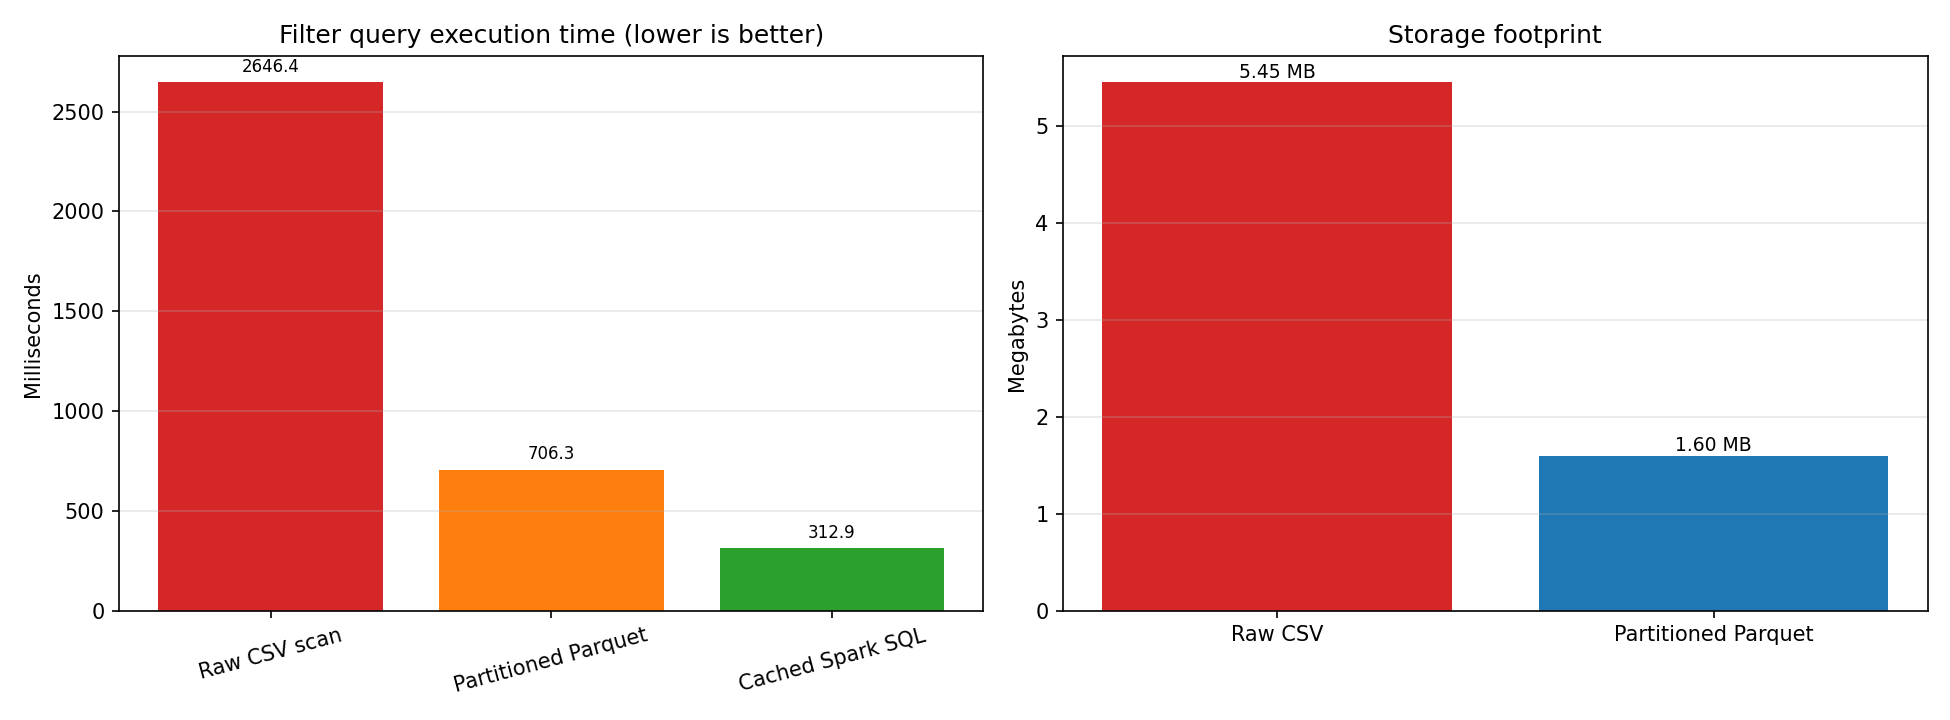
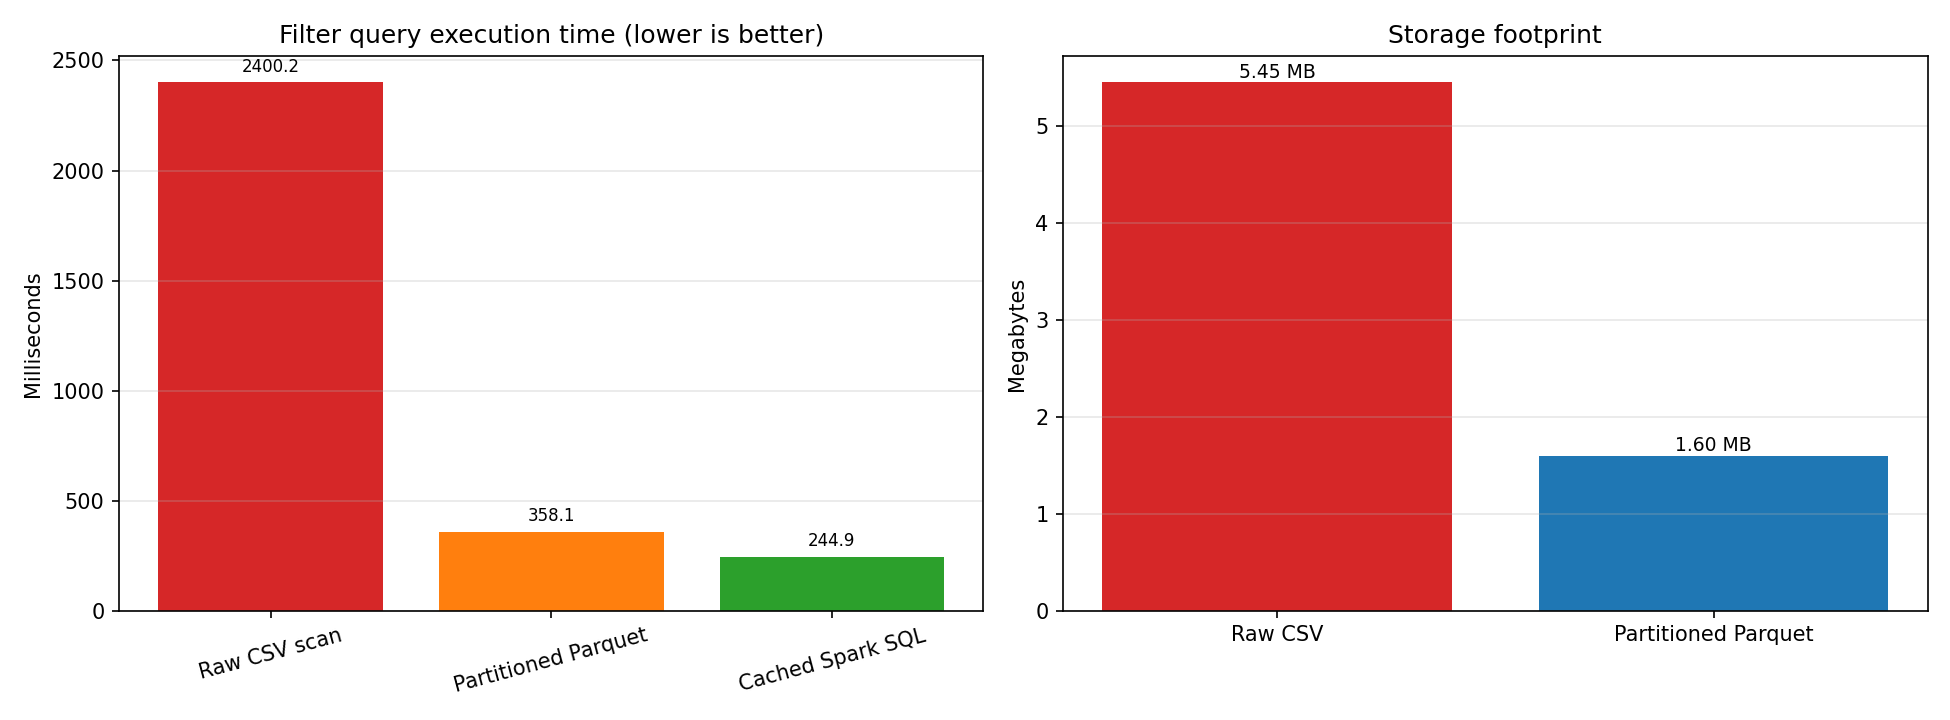
fix: remove machine-specific paths from generated reports and Spark config

diff --git a/common/spark.py b/common/spark.py
@@ -4,20 +4,59 @@ from __future__ import annotations
 
 import os
 import sys
+import tempfile
 from pathlib import Path
 
 _WINUTILS_CANDIDATES = [
     os.environ.get("HADOOP_HOME"),
     str(Path(__file__).resolve().parents[1] / ".hadoop"),
-    r"C:\Users\junai\AppData\Local\Temp\opencode\hadoop",
 ]
 
 _PYTHON_CANDIDATES = [
     os.environ.get("PYSPARK_PYTHON"),
-    r"C:\Users\junai\AppData\Local\Temp\opencode\py311\python.exe",
-    r"C:\Users\junai\AppData\Local\Programs\Python\Python311\python.exe",
     sys.executable,
 ]
+
+
+def _space_free_python_alias() -> str | None:
+    """Alias a spaced interpreter path so Spark workers can launch on Windows.
+
+    Spark starts Python workers through cmd.exe, and a space in the
+    interpreter path (e.g. ``C:\\Program Files\\...``) can fail with an EOF
+    error.  A junction in the OS temp folder (always space-free) is created
+    pointing at the interpreter's parent directory.  Never puts a username or
+    other machine-specific value into the generated reports.
+    """
+    if os.name != "nt":
+        return None
+    exe = Path(sys.executable)
+    if " " not in str(exe):
+        return None
+    alias_dir = Path(tempfile.gettempdir()) / "spark_py_alias"
+    python_alias = alias_dir / exe.name
+    target = exe.parent
+    try:
+        if python_alias.exists():
+            alias_dir.unlink()
+        try:
+            import _winapi
+
+            _winapi.CreateJunction(str(target), str(alias_dir))
+        except ImportError:
+            return None
+        if python_alias.exists():
+            return str(python_alias)
+    except OSError:
+        return None
+    return None
+
+
+def _python_candidates() -> list[str]:
+    return [
+        os.environ.get("PYSPARK_PYTHON"),
+        _space_free_python_alias(),
+        sys.executable,
+    ]
 
 
 def configure_hadoop() -> str | None:
@@ -39,12 +78,10 @@ def configure_hadoop() -> str | None:
 def configure_python() -> str:
     """Select a Python executable whose path does not break Spark workers.
 
-    On Windows the default interpreter may live under ``C:\\Program Files``.
-    Spark launches Python workers through cmd.exe and a space in the path can
-    make the worker fail with an EOF error, so a space-free junction is used
-    when available.
+    Prefers ``PYSPARK_PYTHON`` from the environment, then a space-free alias
+    of the current interpreter, then the interpreter itself.
     """
-    for candidate in _PYTHON_CANDIDATES:
+    for candidate in _python_candidates():
         if candidate and Path(candidate).exists():
             os.environ["PYSPARK_PYTHON"] = candidate
             os.environ["PYSPARK_DRIVER_PYTHON"] = candidate

diff --git a/practicals/exp04_ingestion_nosql.py b/practicals/exp04_ingestion_nosql.py
@@ -14,7 +14,7 @@ matplotlib.use("Agg")
 import matplotlib.pyplot as plt
 import pandas as pd
 
-from common.config import BUS_CSV, TRAIN_CSV, output_dir
+from common.config import BUS_CSV, TRAIN_CSV, rel, output_dir
 from common.data_gen import ensure_data
 from common.mongo import get_mongo
 from common.spark import get_spark
@@ -196,10 +196,10 @@ def main() -> dict:
             "",
             "HDFS-STYLE PARTITIONED STORAGE",
             "-" * 78,
-            f"Bus path            : {bus_path}",
+            f"Bus path            : {rel(bus_path)}",
             f"Bus partitions (5)  : {', '.join(bus_dirs)}",
             f"Bus records         : {bus_hdfs_count:,}",
-            f"Train path          : {train_path}",
+            f"Train path          : {rel(train_path)}",
             f"Train partitions (7): {', '.join(train_dirs)}",
             f"Train records       : {train_hdfs_count:,}",
             "",

diff --git a/practicals/exp06_visualization_report.py b/practicals/exp06_visualization_report.py
@@ -13,7 +13,7 @@ import pandas as pd
 import seaborn as sns
 from matplotlib.patches import Rectangle
 
-from common.config import output_dir
+from common.config import output_dir, rel
 from common.data_gen import ensure_data
 from common.spark import get_spark
 from common.transit import build_unified
@@ -267,7 +267,7 @@ def main() -> dict:
             "=" * 78,
             f"Generated : {datetime.now().isoformat(timespec='seconds')}",
             f"Source    : {'Experiment 5 Parquet artifacts' if reused else 'rebuilt from raw CSVs'}",
-            f"Path      : {master_path}",
+            f"Path      : {rel(master_path)}",
             f"Records   : {len(df):,}",
             "",
             "MULTIMODAL PERFORMANCE & RELIABILITY SCORECARD",

diff --git a/practicals/exp05_spark_sql.py b/practicals/exp05_spark_sql.py
@@ -13,7 +13,7 @@ import matplotlib.pyplot as plt
 import pandas as pd
 from pyspark.sql.functions import col
 
-from common.config import BUS_CSV, TRAIN_CSV, output_dir
+from common.config import BUS_CSV, TRAIN_CSV, output_dir, portable_text
 from common.data_gen import ensure_data
 from common.spark import get_spark
 from common.transit import build_unified
@@ -85,7 +85,7 @@ def _plan_text(df) -> dict:
         ("physical", lambda: qe.executedPlan()),
     ):
         try:
-            plans[name] = getter().toString()
+            plans[name] = portable_text(getter().toString())
         except Exception as exc:  # pragma: no cover - defensive across Spark versions
             plans[name] = f"unavailable: {exc}"
     return plans

diff --git a/common/config.py b/common/config.py
@@ -70,6 +70,21 @@ def output_dir(experiment: str) -> Path:
     return path
 
 
+def portable_text(text: str) -> str:
+    """Replace machine-specific absolute project paths with a placeholder."""
+    for variant in (ROOT.as_uri(), ROOT.as_posix(), str(ROOT)):
+        text = text.replace(variant, "<PROJECT_ROOT>")
+    return text
+
+
+def rel(path: Path) -> str:
+    """Render a project path as a forward-slash path relative to the repo root."""
+    try:
+        return path.relative_to(ROOT).as_posix()
+    except ValueError:
+        return path.as_posix()
+
+
 def ensure_dirs() -> None:
     for path in (DATA_DIR, OUTPUTS_DIR, DOCS_DIR):
         path.mkdir(parents=True, exist_ok=True)
